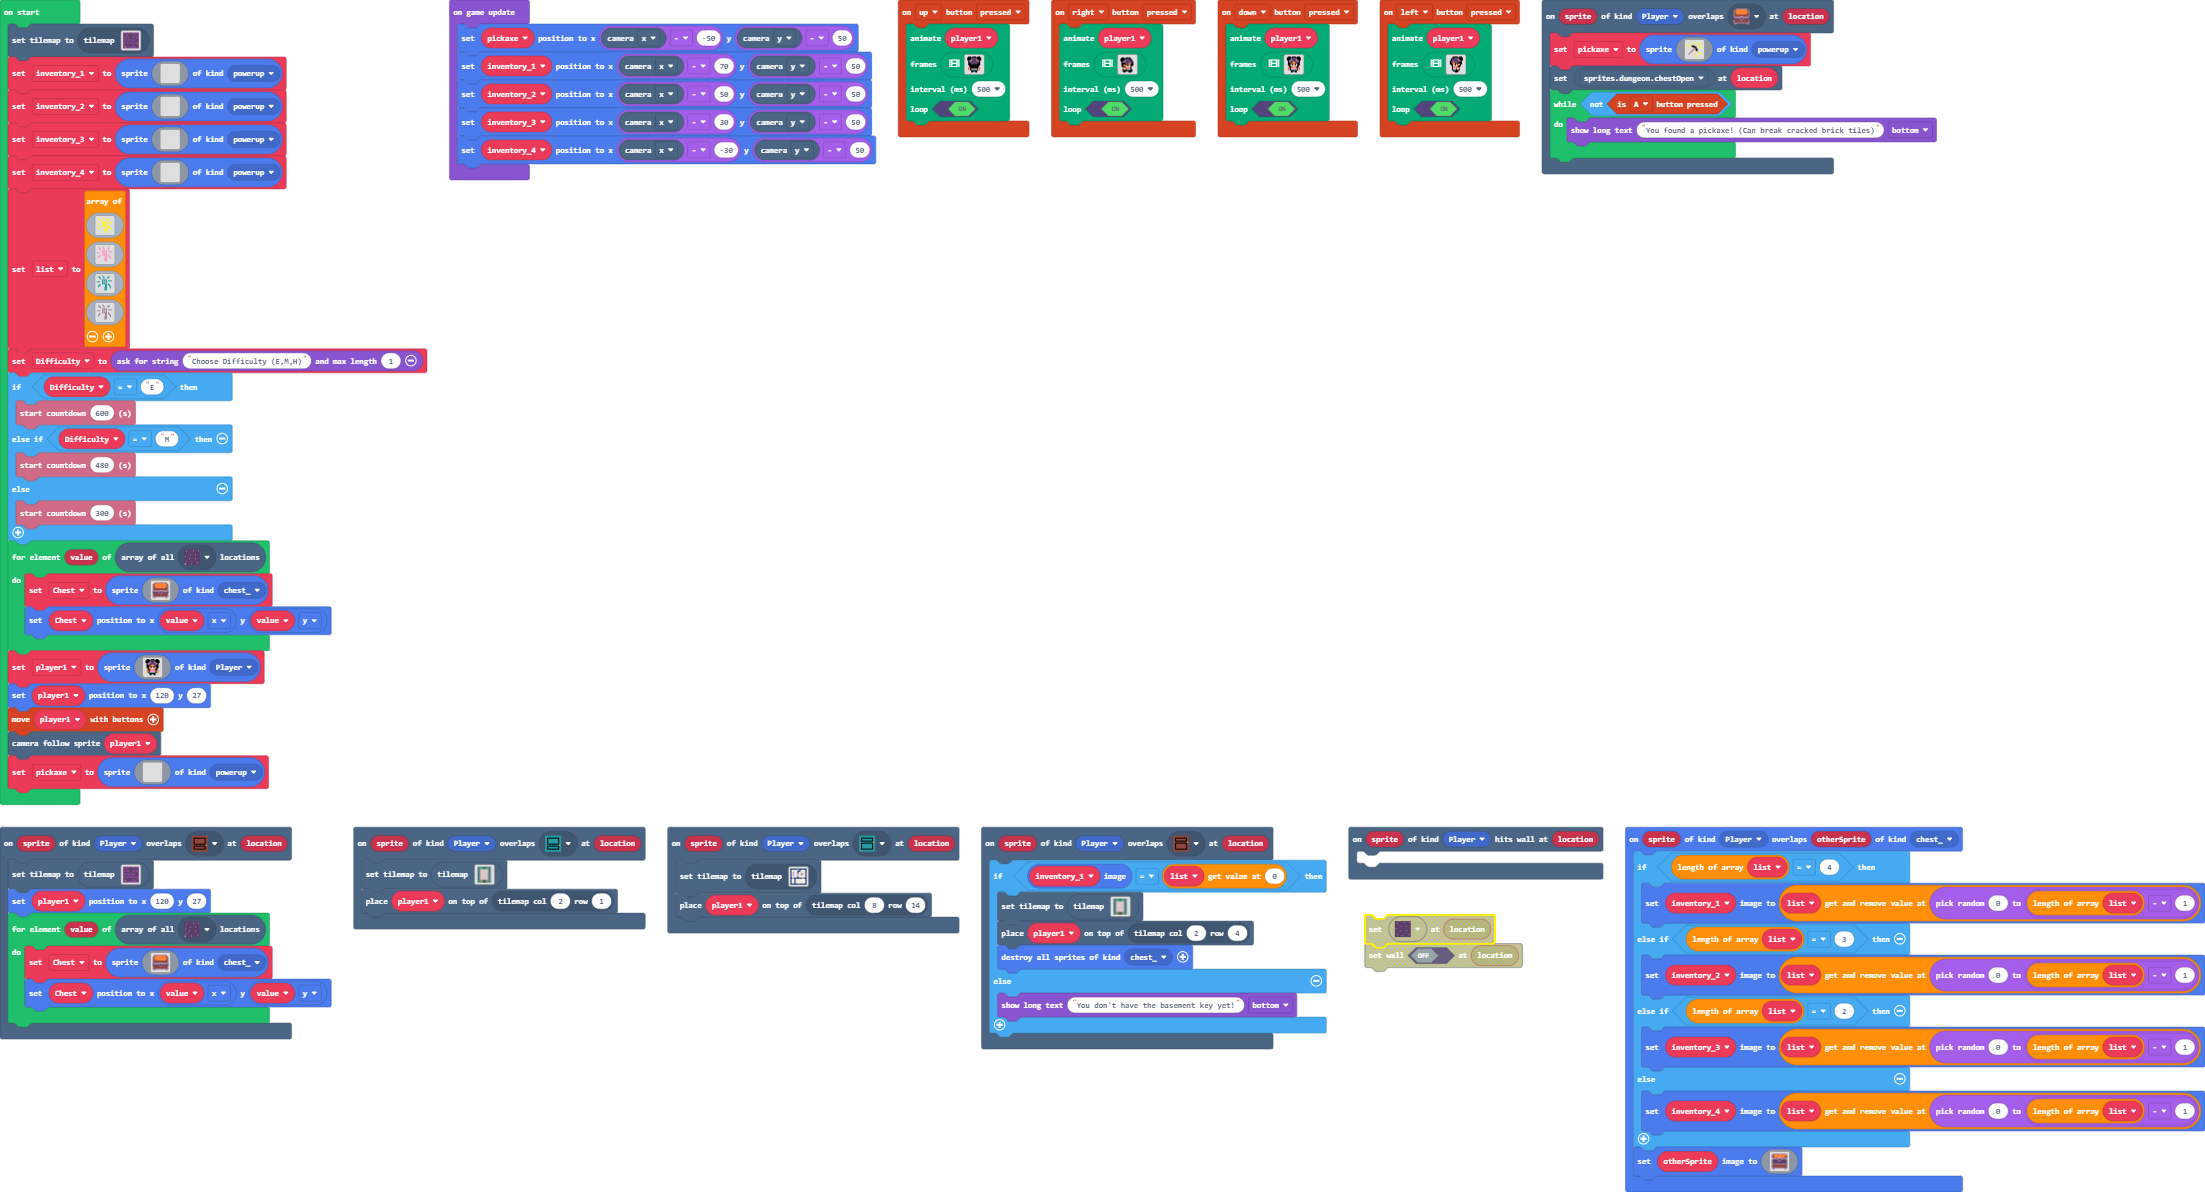
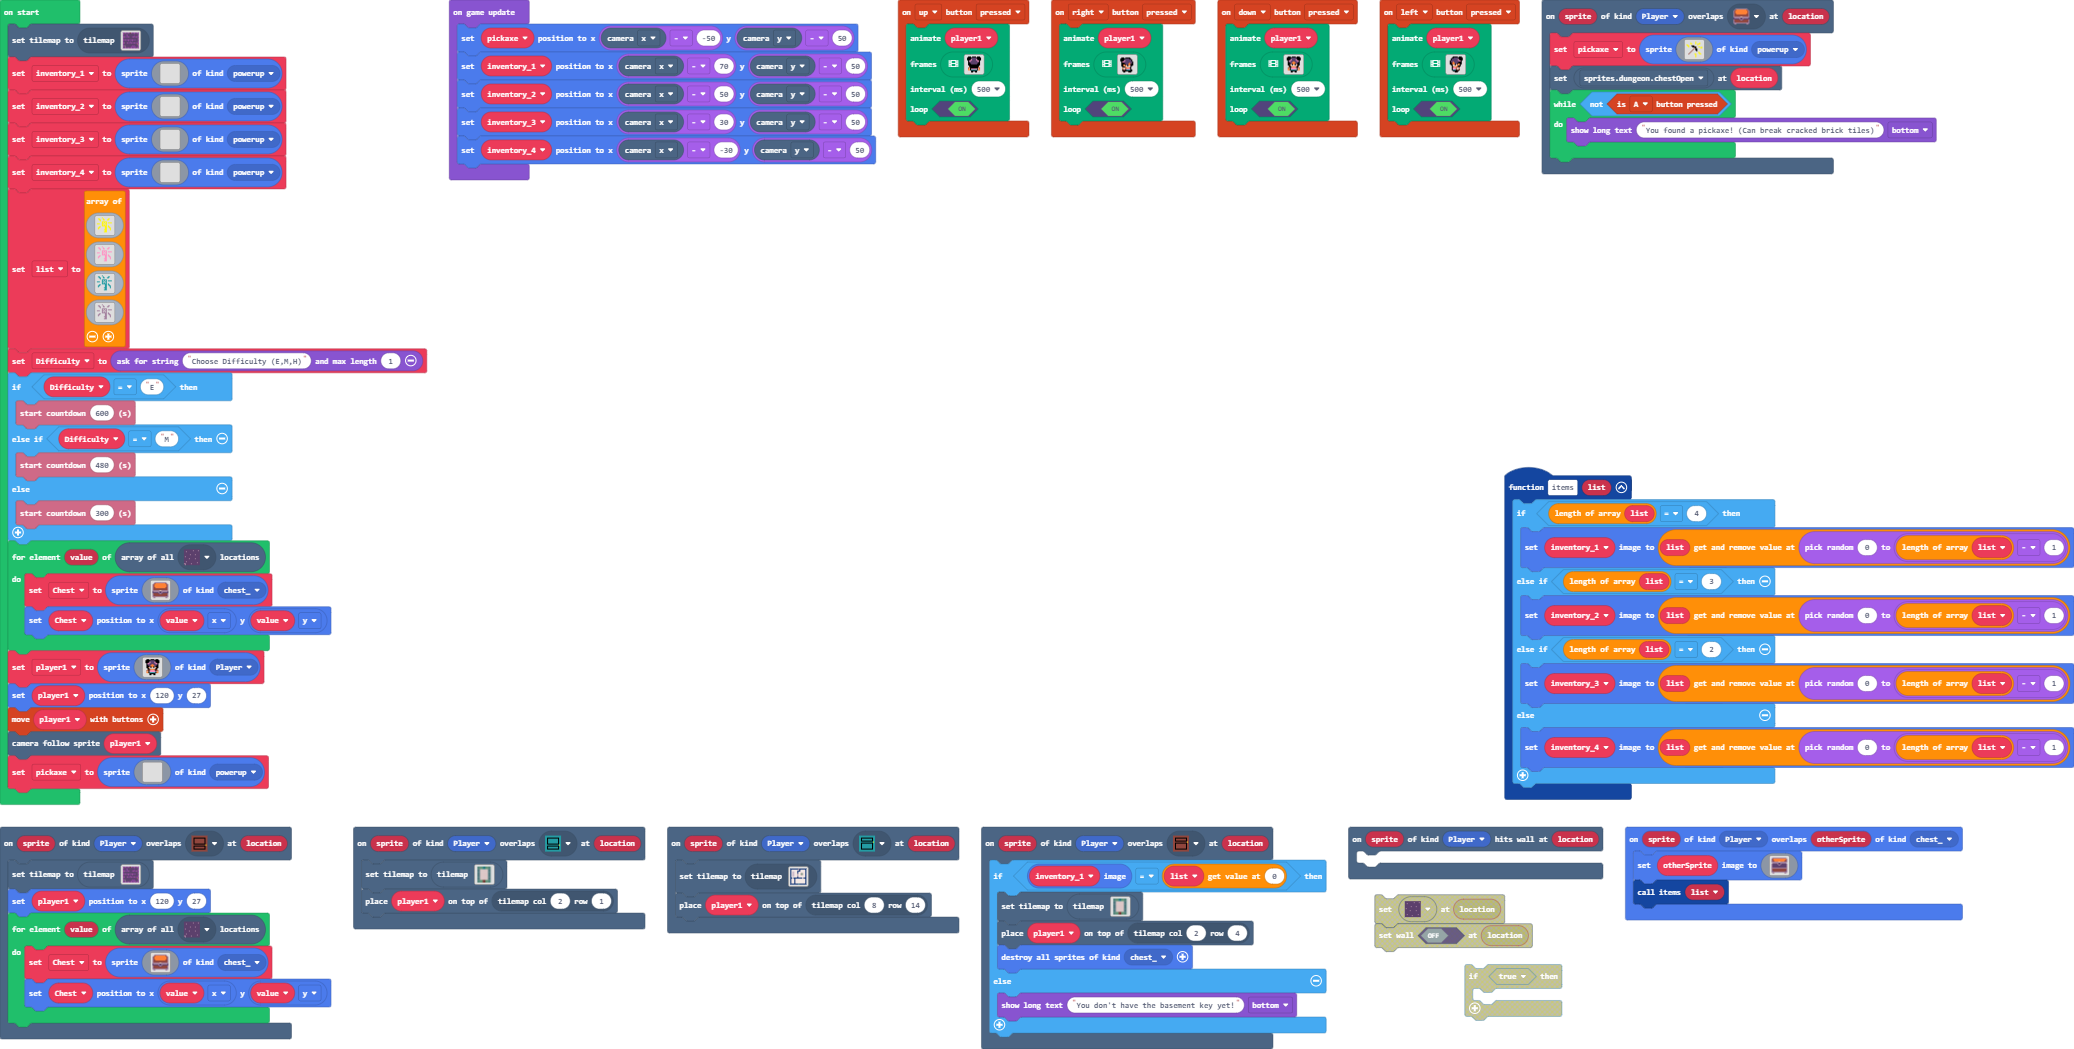
Added function

diff --git a/main.ts b/main.ts
@@ -103,15 +103,6 @@ scene.onOverlapTile(SpriteKind.Player, assets.tile`myTile7`, function (sprite, l
     tiles.placeOnTile(player1, tiles.getTileLocation(2, 1))
 })
 sprites.onOverlap(SpriteKind.Player, SpriteKind.chest_, function (sprite, otherSprite) {
-    if (list.length == 4) {
-        inventory_1.setImage(list.removeAt(randint(0, list.length - 1)))
-    } else if (list.length == 3) {
-        inventory_2.setImage(list.removeAt(randint(0, list.length - 1)))
-    } else if (list.length == 2) {
-        inventory_3.setImage(list.removeAt(randint(0, list.length - 1)))
-    } else {
-        inventory_4.setImage(list.removeAt(randint(0, list.length - 1)))
-    }
     otherSprite.setImage(img`
         . b b b b b b b b b b b b b b . 
         b e 4 4 4 4 4 4 4 4 4 4 4 4 4 b 
@@ -130,6 +121,7 @@ sprites.onOverlap(SpriteKind.Player, SpriteKind.chest_, function (sprite, otherS
         b b b b b b b b b b b b b b b b 
         . b b . . . . . . . . . . b b . 
         `)
+    items(list)
 })
 controller.left.onEvent(ControllerButtonEvent.Pressed, function () {
     animation.runImageAnimation(
@@ -190,6 +182,17 @@ controller.left.onEvent(ControllerButtonEvent.Pressed, function () {
     true
     )
 })
+function items (list: Image[]) {
+    if (list.length == 4) {
+        inventory_1.setImage(list.removeAt(randint(0, list.length - 1)))
+    } else if (list.length == 3) {
+        inventory_2.setImage(list.removeAt(randint(0, list.length - 1)))
+    } else if (list.length == 2) {
+        inventory_3.setImage(list.removeAt(randint(0, list.length - 1)))
+    } else {
+        inventory_4.setImage(list.removeAt(randint(0, list.length - 1)))
+    }
+}
 scene.onOverlapTile(SpriteKind.Player, sprites.dungeon.chestClosed, function (sprite, location) {
     pickaxe = sprites.create(img`
         . . . . . . . . . 5 . . . . . . 
